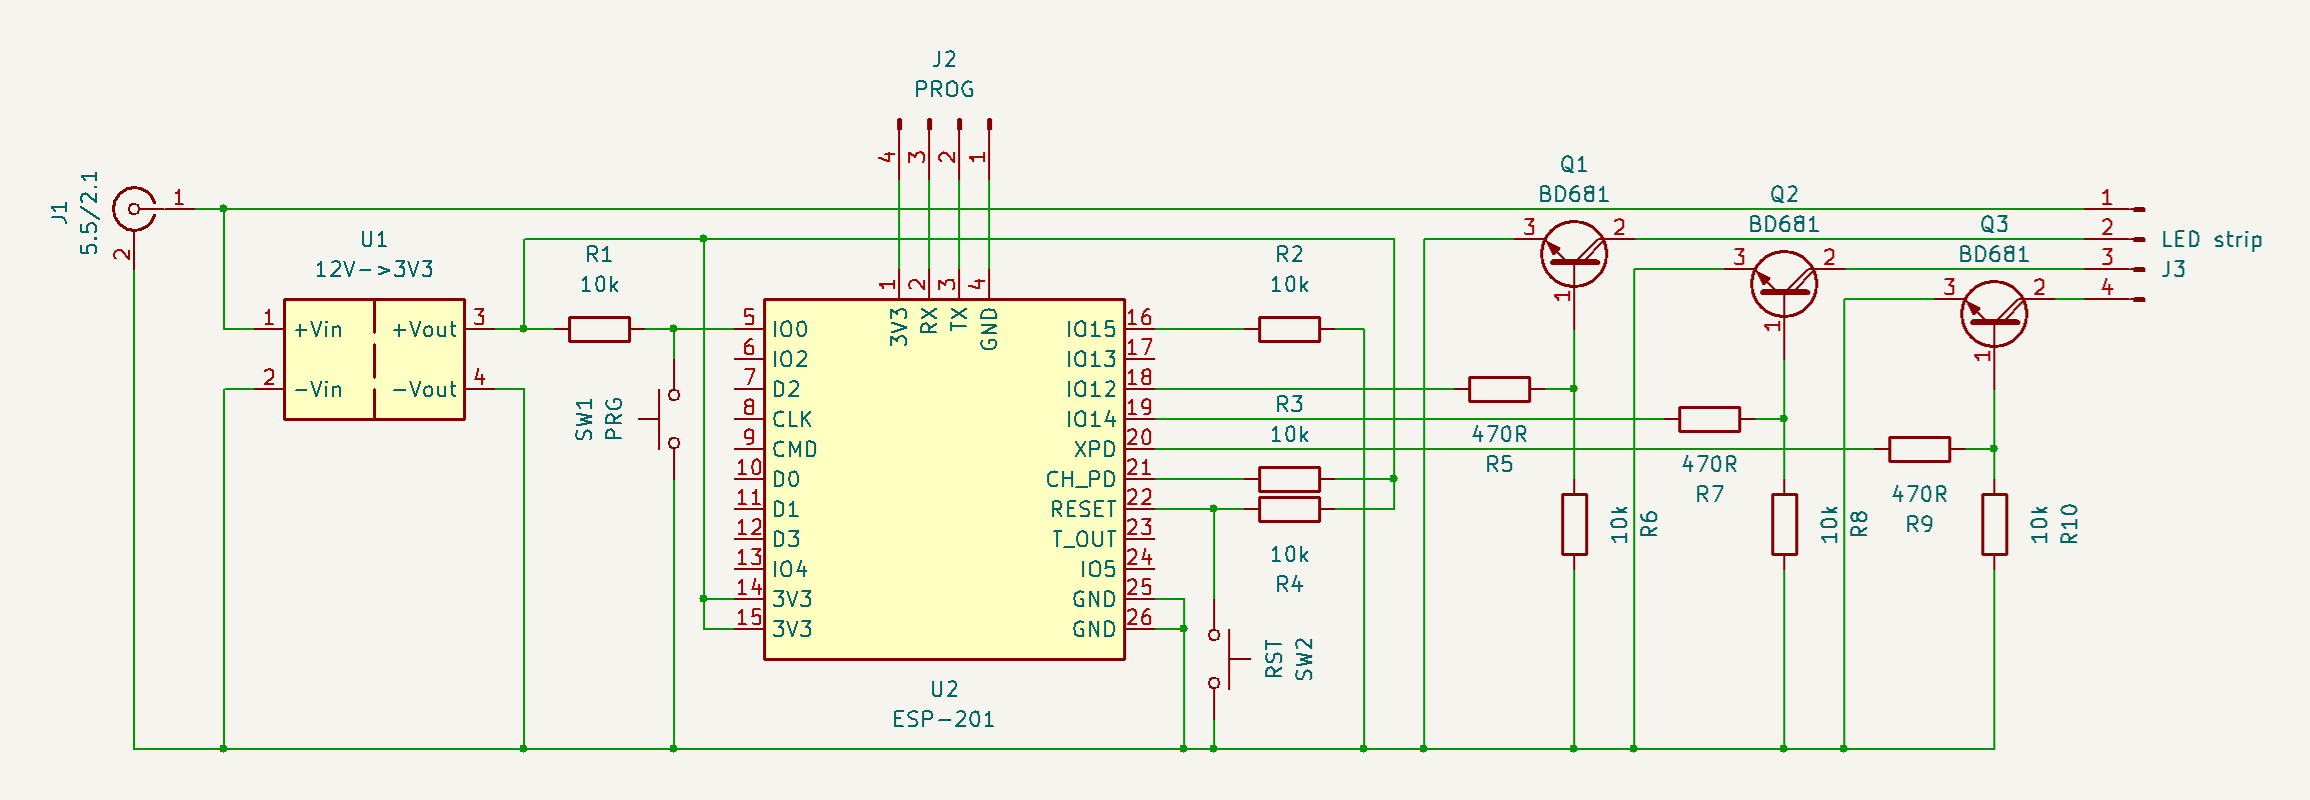
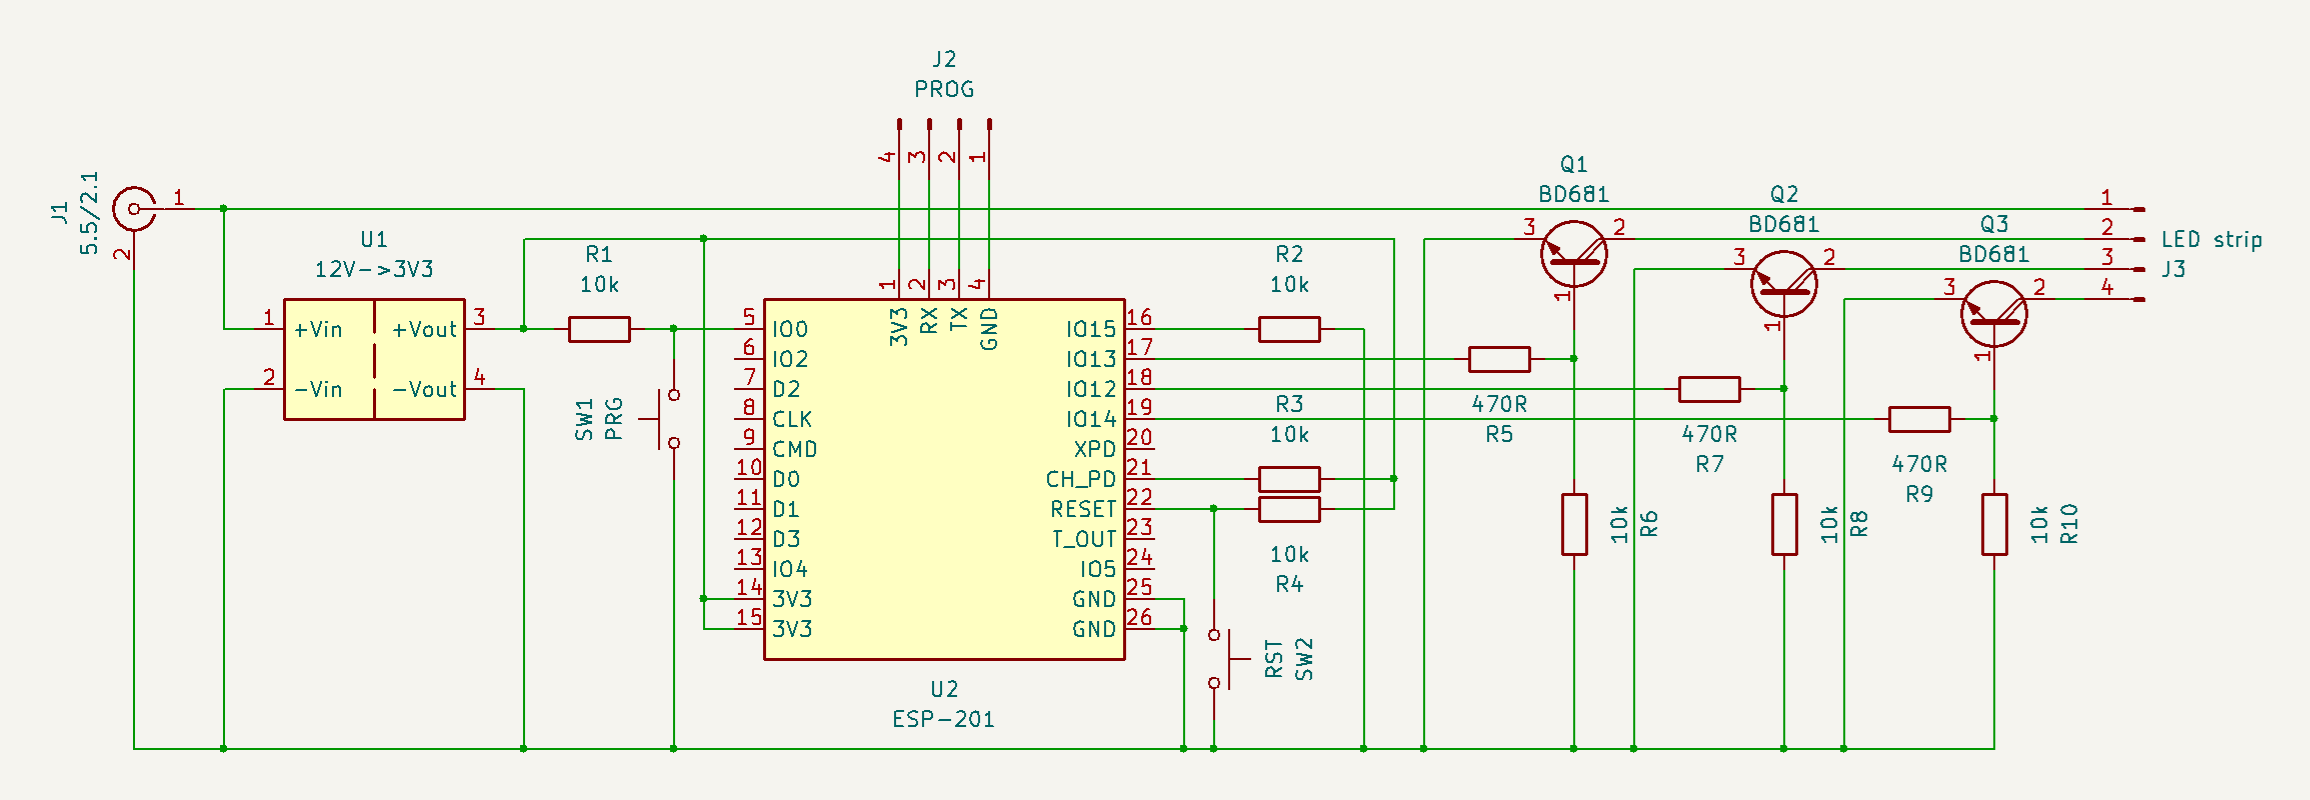
PINs 12, 13 and 14 used instead of 12, 14 and 16 (the original configuration caused flashing while device restarting)

Changed region(s): [[0.6234, 0.4375, 0.6857, 0.5938], [0.7169, 0.4688, 0.7792, 0.5938], [0.8104, 0.5, 0.8727, 0.625]]

diff --git a/README.md b/README.md
@@ -16,11 +16,13 @@ In addition to control, the controller is also used to power the LED strip. The 
 
 You can see an example of the built hardware using universal drilled PCB:
 
-![LED strip controller top](led-strip-controller-top.jpg)
+![LED strip controller 1](led-strip-controller-1.jpg)
 
-![LED strip controller bottom](led-strip-controller-bottom.jpg)
+![LED strip controller 2](led-strip-controller-2.jpg)
 
-![LED strip controller top 2](led-strip-controller-top-2.jpg)
+![LED strip controller 3](led-strip-controller-3.jpg)
+
+![LED strip controller 4](led-strip-controller-4.jpg)
 
 **Note:** The ESP-201 module needed to be modified. The manufacturer places headers on the opposite side to where the components are soldered. I removed the headers and soldered them to the opposite side so that the entire device would fit in the box.
 
